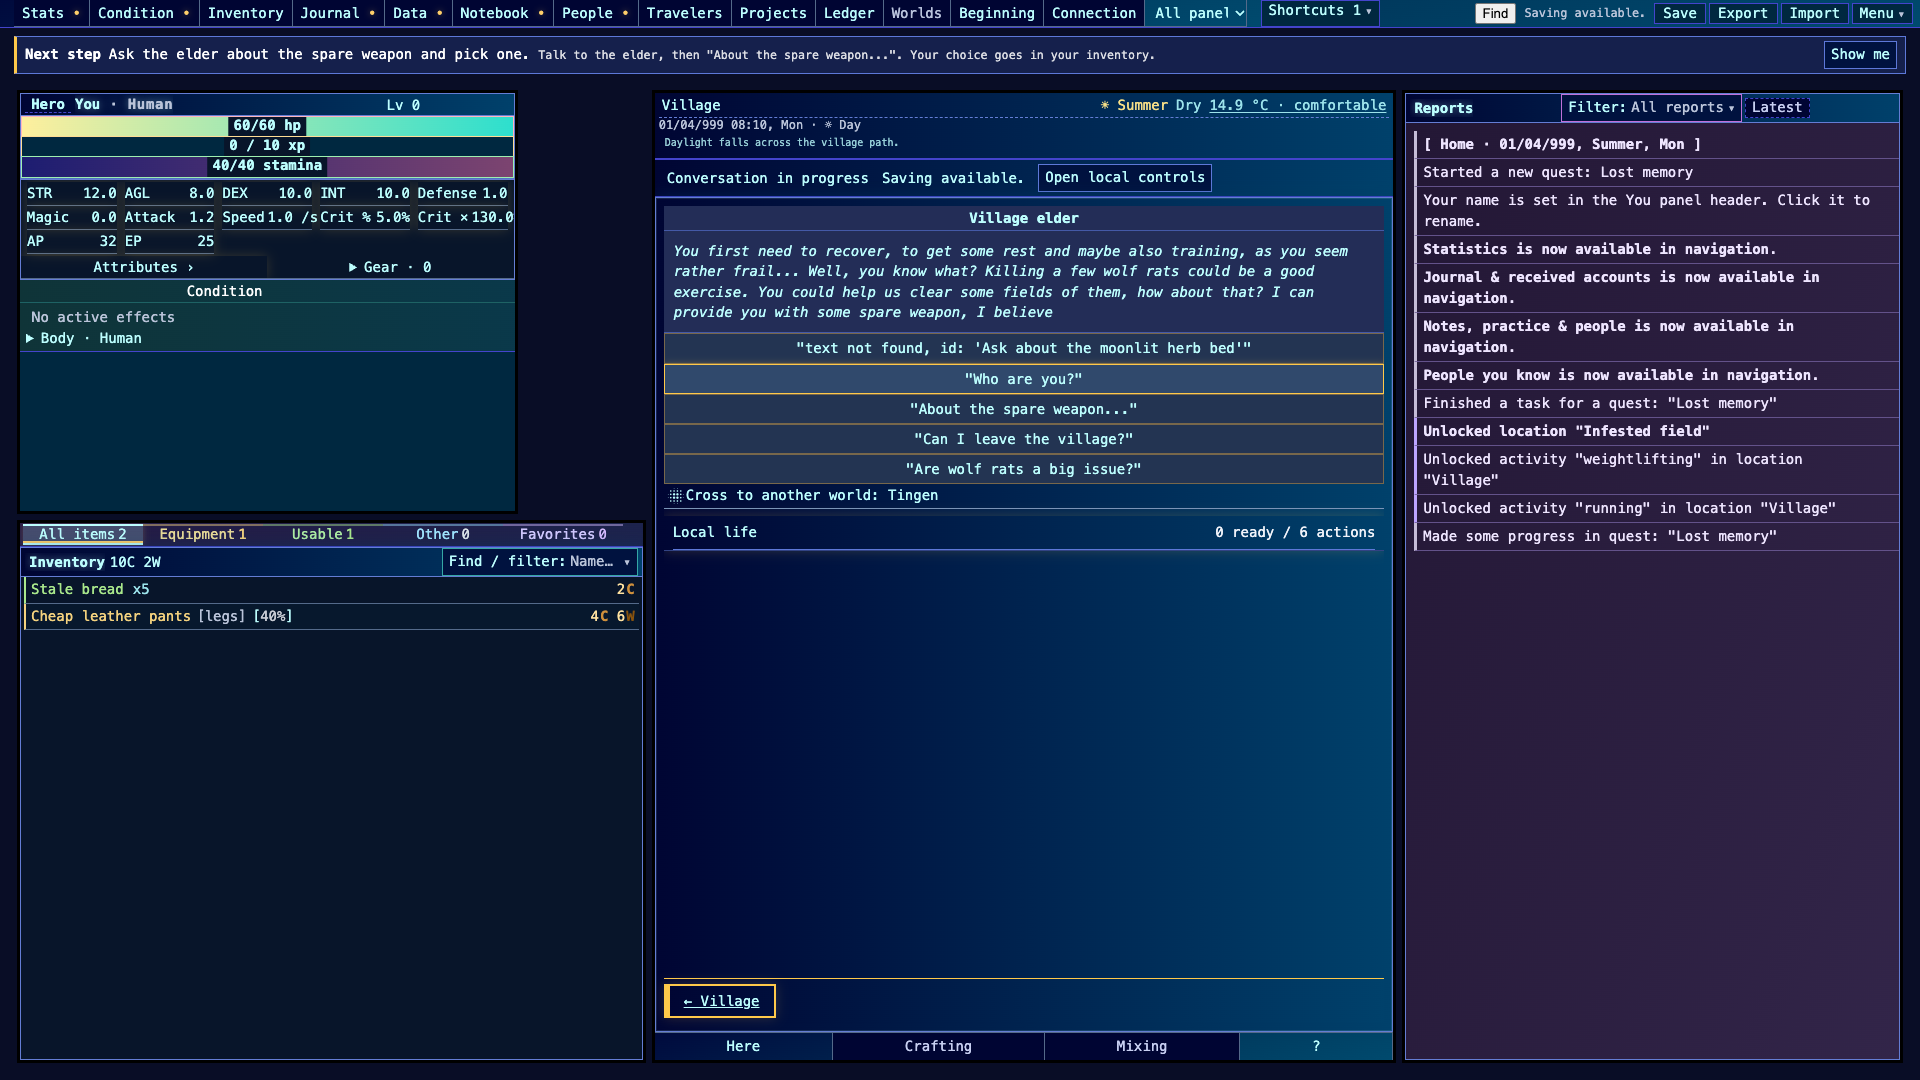
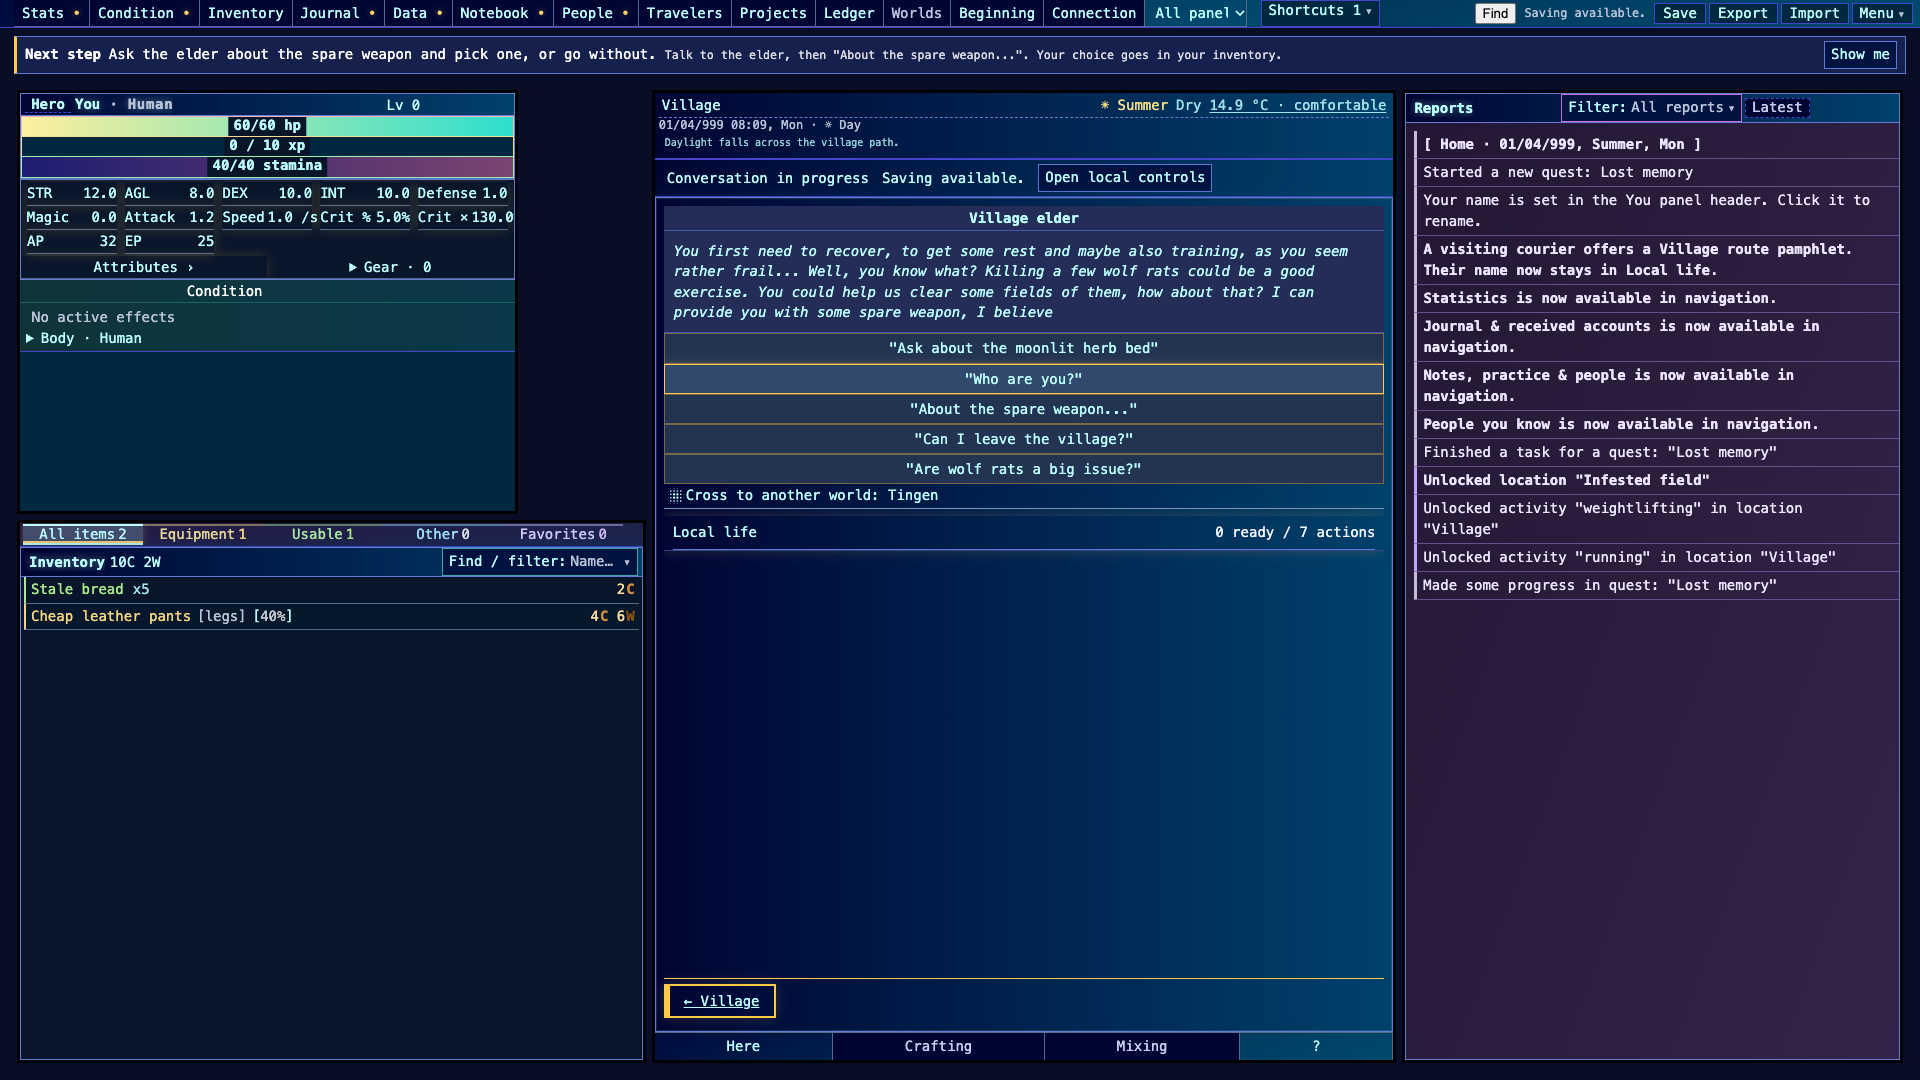
First hour: step rows follow the elder's own lines, home-world gate, rebuilt before/after evidence, receipt corrections
(cherry picked from commit 446045acbed5f77a5ee28589de293e9244209fc3)

diff --git a/src/first_hour.js b/src/first_hour.js
@@ -1,7 +1,8 @@
 // First-hour guidance (proposal, docs/representations/FIRST_HOUR.md). One derived line saying what
 // to do next and where to click. It reads quest progress and never stores anything, so saves,
 // saved layouts and the opening quest are untouched. Rows are data: a later opening adds rows.
-// `state.tasks` is the opening quest's per-task finished flags; `armed` and `fought` are plain facts.
+// `state.tasks` is the opening quest's per-task finished flags; the rest are plain facts read from the
+// elder's own conversation lines, so the line never asks for a report the elder cannot take.
 export const FIRST_HOUR_QUEST = 'Lost memory';
 
 // First row whose `when` is true wins. `where` names a workspace module for the Show me button.
@@ -12,14 +13,20 @@ export const FIRST_HOUR_STEPS = [
     {id: 'ask-to-leave', when: s => !s.tasks[1], where: 'local-actions',
         line: 'Keep talking: say you want to leave.',
         how: 'In the conversation, pick the line about leaving, then "But I want to leave".'},
-    {id: 'get-weapon', when: s => !s.tasks[2] && !s.armed && !s.fought, where: 'local-actions',
-        line: 'Ask the elder about the spare weapon and pick one.',
+    {id: 'get-weapon', when: s => !s.tasks[2] && !s.armed && !s.fieldCleared, where: 'local-actions',
+        line: 'Ask the elder about the spare weapon and pick one, or go without.',
         how: 'Talk to the elder, then "About the spare weapon...". Your choice goes in your inventory.'},
-    {id: 'fight-rats', when: s => !s.tasks[2] && !s.fought, where: 'local-actions',
+    {id: 'fight-rats', when: s => !s.tasks[2] && !s.fieldCleared, where: 'local-actions',
         line: 'Clear the wolf rats in the Infested field.',
         how: 'Local actions, then Move somewhere else, then Infested field. Fights run on their own; watch your health.'},
-    {id: 'report-back', when: s => !s.tasks[2], where: 'local-actions',
-        line: 'Tell the elder how the rats went.',
+    {id: 'report-field', when: s => !s.tasks[2] && !s.fieldReported, where: 'local-actions',
+        line: 'The field is clear. Tell the elder.',
+        how: 'Back in the village: Local actions, Talk to someone, Talk to village elder.'},
+    {id: 'clear-cave', when: s => !s.tasks[2] && !s.caveCleared, where: 'local-actions',
+        line: 'Clear the Nearby cave, then tell the elder.',
+        how: 'Local actions, then Move somewhere else, then Nearby cave. Rest first if your health is low.'},
+    {id: 'report-cave', when: s => !s.tasks[2], where: 'local-actions',
+        line: 'The cave is clear. Tell the elder.',
         how: 'Back in the village: Local actions, Talk to someone, Talk to village elder.'},
     {id: 'journal', when: s => !s.tasks[3], where: 'records',
         line: 'Your next lead is in the Journal.',
@@ -56,13 +63,13 @@ export function createNextStepCard({host, read, show, enabled = () => true}) {
     return {card, render};
 }
 
-// The one wiring call main.js makes. Reads quest state; refreshes on a slow tick and on setting change.
-export function mountFirstHour({host, quests, active, killcounts, armed, show, setting, subscribe}) {
+// The one wiring call main.js makes. `facts()` returns {armed, fieldCleared, fieldReported, caveCleared};
+// `here()` says whether the opening's elder is in reach (the home Village world).
+export function mountFirstHour({host, quests, active, facts, here, show, setting, subscribe}) {
     const read = () => {
         const quest = quests[FIRST_HOUR_QUEST];
-        if (!quest || !(FIRST_HOUR_QUEST in active) || quest.isFinished()) return null;
-        return {tasks: quest.quest_tasks.map(task => task.isFinished()), armed: !!armed(),
-            fought: Object.values(killcounts).some(n => n > 0)};
+        if (!quest || !(FIRST_HOUR_QUEST in active) || quest.isFinished() || !here()) return null;
+        return {tasks: quest.quest_tasks.map(task => task.isFinished()), ...facts()};
     };
     const view = createNextStepCard({host, read, show, enabled: () => setting() !== 'off'});
     subscribe(view.render);

diff --git a/src/main.js b/src/main.js
@@ -9853,7 +9853,7 @@ if(!importProbeToken && !foundationSaveBlocked && !is_loading_error) {
     next.onclick=()=>{openingStep=Math.min(3,openingStep+1);try{localStorage.setItem('yairpg.opening.v1',String(openingStep));}catch{/* Session only. */}renderOpening();updateWorkspace();};
     if(Object.values(character.getLevelableComponent().skill_progress).some(p=>p.total_xp>0)||Object.values(enemy_killcount).some(n=>n>0)||Object.values(book_stats).some(b=>b.accumulated_time>0))openingStep=3;
     subscribeDisplaySettings(()=>{renderOpening();updateWorkspace();});renderOpening();
-    mountFirstHour({host:document.getElementById('main_content'),quests,active:active_quests,killcounts:enemy_killcount,armed:()=>character.getEquipment().weapon||Object.values(character.getItems()).some(r=>r.item?.equip_slot==='weapon'),show:openWorkspaceModule,setting:()=>getDisplaySetting('nextStep'),subscribe:subscribeDisplaySettings});
+    mountFirstHour({host:document.getElementById('main_content'),quests,active:active_quests,here:()=>expansionState.actors.player.worldId==='base.frontier',show:openWorkspaceModule,setting:()=>getDisplaySetting('nextStep'),subscribe:subscribeDisplaySettings,facts:()=>{const line=id=>dialogues['village elder'].textlines[id].getAvailabilityComponent().getStatus(),some=(ids,key)=>ids.some(id=>key(line(id))),field=['cleared field','cleared field alt'];return {armed:!!(character.getEquipment().weapon||Object.values(character.getItems()).some(r=>r.item?.equip_slot==='weapon')),fieldCleared:some(field,l=>l.is_unlocked||l.is_locked||l.is_finished),fieldReported:some(field,l=>l.is_locked||l.is_finished),caveCleared:some(['cleared cave'],l=>l.is_unlocked||l.is_locked||l.is_finished)};}});
     const reference=document.createElement('section');reference.id='reading_reference';
     const referenceKnown=()=>['ABC for kids','Old combat manual'].some(id=>item_templates[id].isFinished());
     referenceRender=()=>{

diff --git a/tests/first_hour.test.js b/tests/first_hour.test.js
@@ -2,18 +2,21 @@ import test from 'node:test';
 import assert from 'node:assert/strict';
 import {nextStep, FIRST_HOUR_STEPS} from '../src/first_hour.js';
 const at = (tasks, extra = {}) => nextStep({tasks, armed: false, fought: false, ...extra})?.id;
-test('opening line follows the quest task flags, not a count', () => {
+test('opening line follows the quest task flags and the elder\'s own lines', () => {
     assert.equal(at([false, false, false, false, false]), 'ask-elder');
     // task 1 is hidden: answered the first question but not yet sent to the field
     assert.equal(at([true, false, false, false, false]), 'ask-to-leave');
-    assert.equal(at([true, true, false, false, false]), 'get-weapon');
-    assert.equal(at([true, true, false, false, false], {armed: true}), 'fight-rats');
-    assert.equal(at([true, true, false, false, false], {armed: true, fought: true}), 'report-back');
+    const sent = [true, true, false, false, false];
+    assert.equal(at(sent), 'get-weapon');
+    assert.equal(at(sent, {armed: true}), 'fight-rats');
+    assert.equal(at(sent, {armed: true, fieldCleared: true}), 'report-field');
+    assert.equal(at(sent, {fieldCleared: true, fieldReported: true}), 'clear-cave');
+    assert.equal(at(sent, {fieldCleared: true, fieldReported: true, caveCleared: true}), 'report-cave');
     assert.equal(at([true, true, true, false, false]), 'journal');
     assert.equal(at([true, true, true, true, false]), undefined);
 });
-test('fighting first does not send the player back for a weapon', () => {
-    assert.equal(at([true, true, false, false, false], {fought: true}), 'report-back');
+test('a cleared field never sends the player back for a weapon or to the field', () => {
+    assert.equal(at([true, true, false, false, false], {fieldCleared: true}), 'report-field');
 });
 test('every step names its place in words and a known module', () => {
     for (const row of FIRST_HOUR_STEPS) {

diff --git a/docs/representations/FIRST_HOUR.md b/docs/representations/FIRST_HOUR.md
@@ -12,8 +12,8 @@ This doc adds a played first-timer log, a representation choice and one shipped 
 
 Route: `game_new`, look, Talk to someone, elder, four dialogue lines. About 8 clicks and no
 game time passes, so "15 in-game minutes" is really "the first 8 clicks"; time only moves
-once the player walks to the field. Real Electron screenshot of minute 0 is
-[before-minute0.png](evidence/first-hour/before-minute0.png).
+once the player walks to the field. Real Electron screenshot of minute 0 (main-checkout build, before any change) is
+[before-electron-minute0.png](evidence/first-hour/before-electron-minute0.png).
 
 | Code | Point of confusion | Evidence | Fix |
 | --- | --- | --- | --- |
@@ -66,7 +66,7 @@ Reading (PRF1): a first-timer should see, at minute 0, one sentence saying what 
 
 | Item | Where |
 | --- | --- |
-| Derived next-step line; rows are data keyed on the opening quest's per-task finished flags, so there is one authority and no new save fields | `src/first_hour.js`, 1 mount line in `src/main.js` |
+| Derived next-step line; rows are data keyed on the opening quest's per-task finished flags and on the elder's own conversation lines (field cleared, field reported, cave cleared), so the line never asks for a report the elder cannot take; one authority, no new save fields. Shown only in the home Village world (`base.frontier`), so a player who crossed elsewhere sees nothing | `src/first_hour.js`, 1 mount line in `src/main.js` |
 | Display setting "Next-step line (proposal)", default On, per browser, in "This browser" | `src/display_settings.js` |
 | Style from workspace tokens only (UR6); sits under the top strip; hidden when the quest is done or the setting is off | `styles/workspace.css` |
 | Fix: raw "text not found" dialogue option | `locales/english.js` |
@@ -75,16 +75,16 @@ Player sentence (PRF2): "Next step: Talk to the village elder. In Local actions:
 Saved layouts (UR17): untouched; the card is not a workspace module. Existing saves with the quest in progress get the matching line; finished saves see nothing.
 Rows beyond this world: add rows keyed on another opening quest (FND5: data first).
 
-Evidence at 1920×1080, bundle sha256 prefix `0863ca8a87fc7982` (built from this branch, vanilla Village start, headless Chromium via `scripts/first_hour_browser.cjs`, route kind: browser, earned steps):
+Evidence at 1920×1080, bundle sha256 prefix `aad58a34f98adbb1` (built from this branch, vanilla Village start, headless Chromium via `scripts/first_hour_browser.cjs`, route kind: browser, earned steps; the script also asserts that no dialogue option shows `text not found`, which proves FH4):
 - before (setting Off): `evidence/first-hour/before-minute0.png`, `before-after-first-answer.png`, `before-sent-to-the-field.png`
 - after (setting On): `evidence/first-hour/after-minute0.png`, `after-after-first-answer.png`, `after-sent-to-the-field.png`; step texts in `after-log.json`
 
-Checks: `node --test tests/first_hour.test.js` (3, key on the task flag not a count, fight-before-weapon does not loop back, every row has words and a known module); reveal_chain, condition, combat_log, known_detail tests 31 pass; `check:arch` pass (main.js net -46 vs baseline); `check:rules` pass. Not run: full `npm test`, persistence (nothing persisted changes). Review state: agent-verified, not human-reviewed.
+Checks: `node --test tests/first_hour.test.js` (3, key on the task flag not a count, fight-before-weapon does not loop back, every row has words and a known module); reveal_chain, condition, combat_log, known_detail tests 31 pass; `check:arch` pass (`main.js` +2 lines, the import and the mount call, unpaid, inside the master baseline slack); `check:rules` pass. Not run: full `npm test` (the integrator runs it at merge, per the coordinator, 2026-10-30; my queued run was stopped), persistence (nothing persisted changes). Review state: agent-verified, not human-reviewed.
 
 ### ACT NOW / ACCOUNT FOR NOW / LATER
 
 - **ACT NOW (done):** next-step line, setting, locale fix, tests, evidence.
-- **ACCOUNT FOR NOW:** the card only covers the vanilla opening quest; other worlds' starts show nothing until rows exist (silent by design, FH empty state is "no card"). Journal eligibility during the opening quest left unchanged (one-line change in the registration loop in `main.js`; existing saves unaffected since they have already met the elder).
+- **ACCOUNT FOR NOW:** the card only covers the vanilla opening quest; other worlds' starts show nothing until rows exist (silent by design, FH empty state is "no card"). Decisions left to Weibao: the `stagedOpening` default and Journal eligibility. Journal eligibility during the opening quest left unchanged (one-line change in the registration loop in `main.js`; existing saves unaffected since they have already met the elder).
 - **LATER/DELEGATE:** (a) event-driven staged reveal replacing the click counter, Sonnet, medium, done when a fresh life shows 5 panels and each new one logs its reason; (b) Journal *Leads* and *Where things are*, Sonnet, medium, done when a fresh Frontier life lists the elder's lead and Tingen's entrance; (c) optional main-goal row and persisted choice, Opus design plus migration, done when save, reload, Export and Import keep it; (d) Talk from the inspected person, small.
 
 ## Round 2 (review, brief items 1-21)
@@ -113,4 +113,4 @@ Checks: `node --test tests/first_hour.test.js` (3, key on the task flag not a co
 
 ### Gaps and limits (honest list)
 
-Played only the vanilla Village start; Frontier and book-world starts were not walked. The headless MCP serves the main checkout, so the after captures use a Chromium script against this branch's bundle. Steps 4 to 6 (fight, report, Journal) are unit-tested but were not played end to end in a browser this round. The `stagedOpening` flip is proposed, not made.
+Played only the vanilla Village start; Frontier and book-world starts were not walked. The headless MCP serves the main checkout, so the after captures use a Chromium script against this branch's bundle. Steps after the weapon (fight, report the field, clear the cave, report, Journal) are unit-tested against the elder's real chain (the quest's third task finishes on the cave report, not the field) but were not played end to end in a browser this round. The `stagedOpening` flip is proposed, not made.
